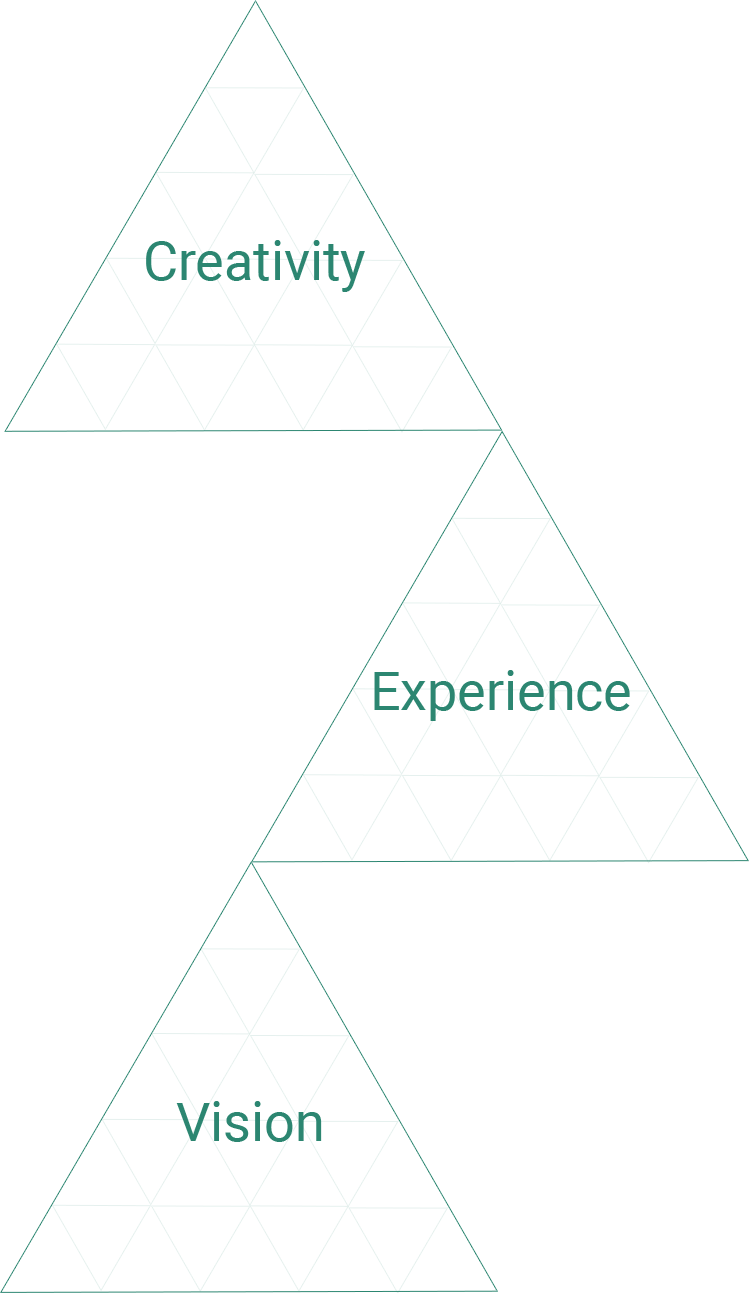
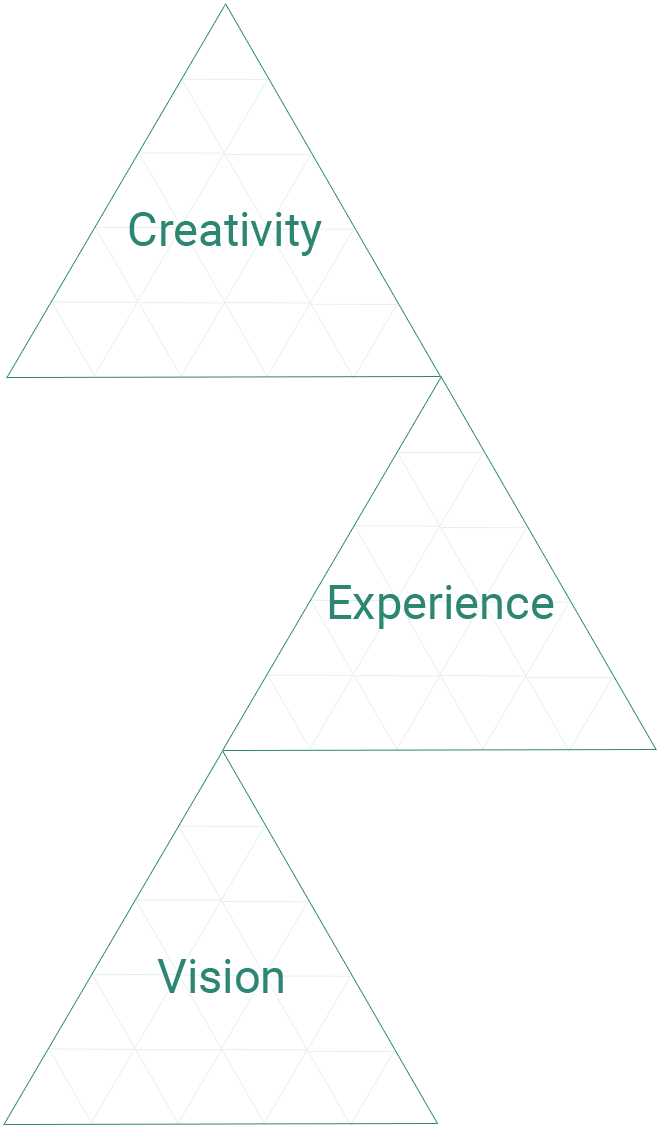
홈 완성, 히스토리 사진 고화질

diff --git a/index.html b/index.html
@@ -166,27 +166,57 @@
 			}
 			#home {
 				/*background: #1D1D1D;*/
+				position: relative;
 				background: #1d1d1d;
 				margin: 0;
-				padding: 10px;
 			}
-			.object1-1 {
+			.home_tri {
+				position: relative;
 				text-align: center;
-				margin: 25px auto;
-            	width: 90%;
-            	max-width: 400px;
-	        }
-
-	        .object1-1 img{
+				margin: 0 auto;
             	width: 100%;
 	        }
 
-	        .object1-2 {
-	            background: url(img/object1-2.png) 0 0 no-repeat;
+	        .home_tri img{
+            	position: relative;
+            	width: 90%;
+	            z-index: 2;
 	        }
 
-	        .object1-3 {
-	            background: url(img/object1-3.png) 0 0 no-repeat;
+	        .tri_back1 {
+	            width: 60%;
+	            position: absolute;
+	            top: -5%;
+	            left: 0;
+	            z-index: 1;
+	        }
+
+	        .tri_back1 img{
+            	width: 100%;
+	        }
+
+	        .tri_back2 {
+	            width: 58%;
+	            position: absolute;
+	            top: 20%;
+	            right: 0;
+	            z-index: 1;
+	        }
+
+	        .tri_back2 img{
+            	width: 100%;
+	        }
+
+	        .tri_back3 {
+	            width: 55%;
+	            position: absolute;
+	            top: 73%;
+	            left: 17%;
+	            z-index: 1;
+	        }
+
+	        .tri_back3 img{
+            	width: 100%;
 	        }
 	        /* home */
 	        /* history */
@@ -378,9 +408,12 @@
 			</ul>
 		</nav>-->
 		<div id="home">
-			<div class="object1-1"><img src="img/home_tri.png"></div>
-			<div class="object1-2"></div>
-			<div class="object1-3"></div>
+			<div class="home_tri">
+				<div class="tri_back1"><img src="img/home_tri_back1.png"></div>
+				<div class="tri_back2"><img src="img/home_tri_back2.png"></div>
+				<div class="tri_back3"><img src="img/home_tri_back3.png"></div>
+				<img src="img/home_tri.png">
+			</div>
 		</div>
 		<div id="history">
 			<h1>History</h1>
